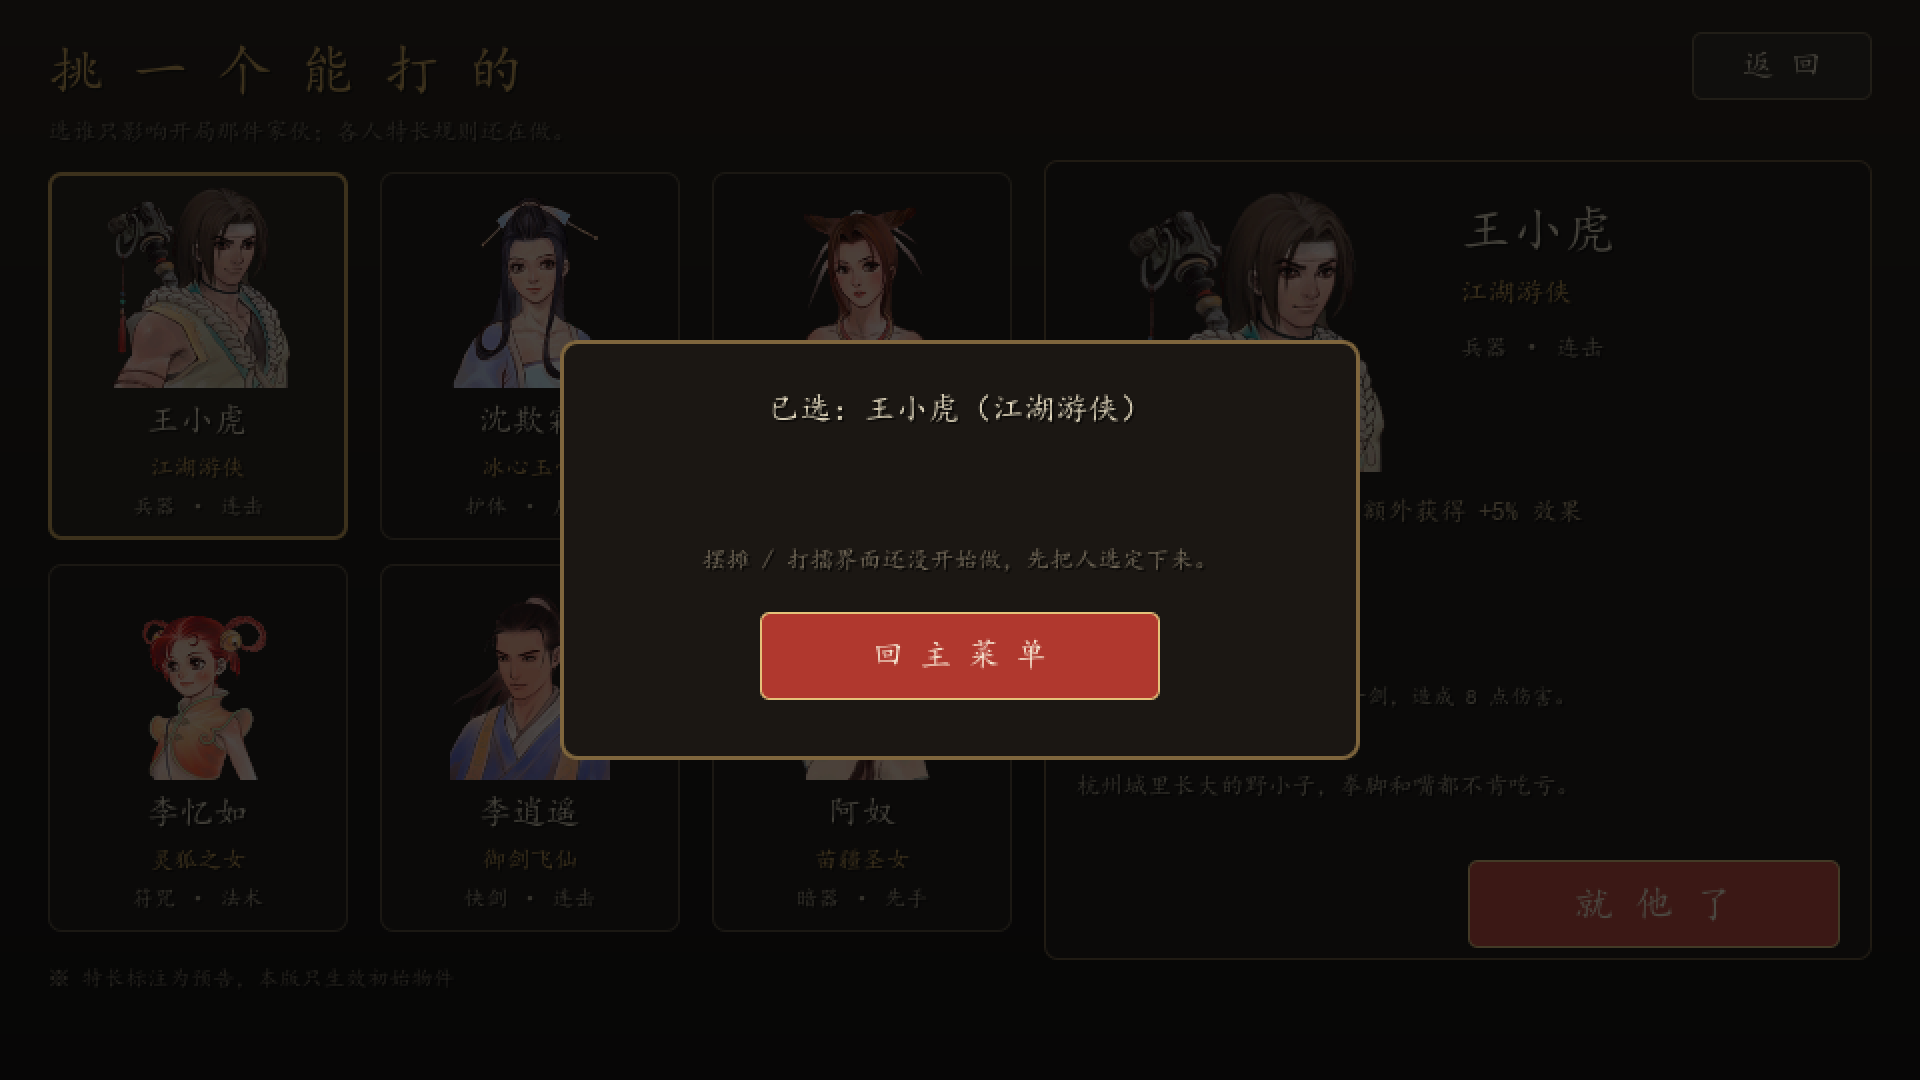
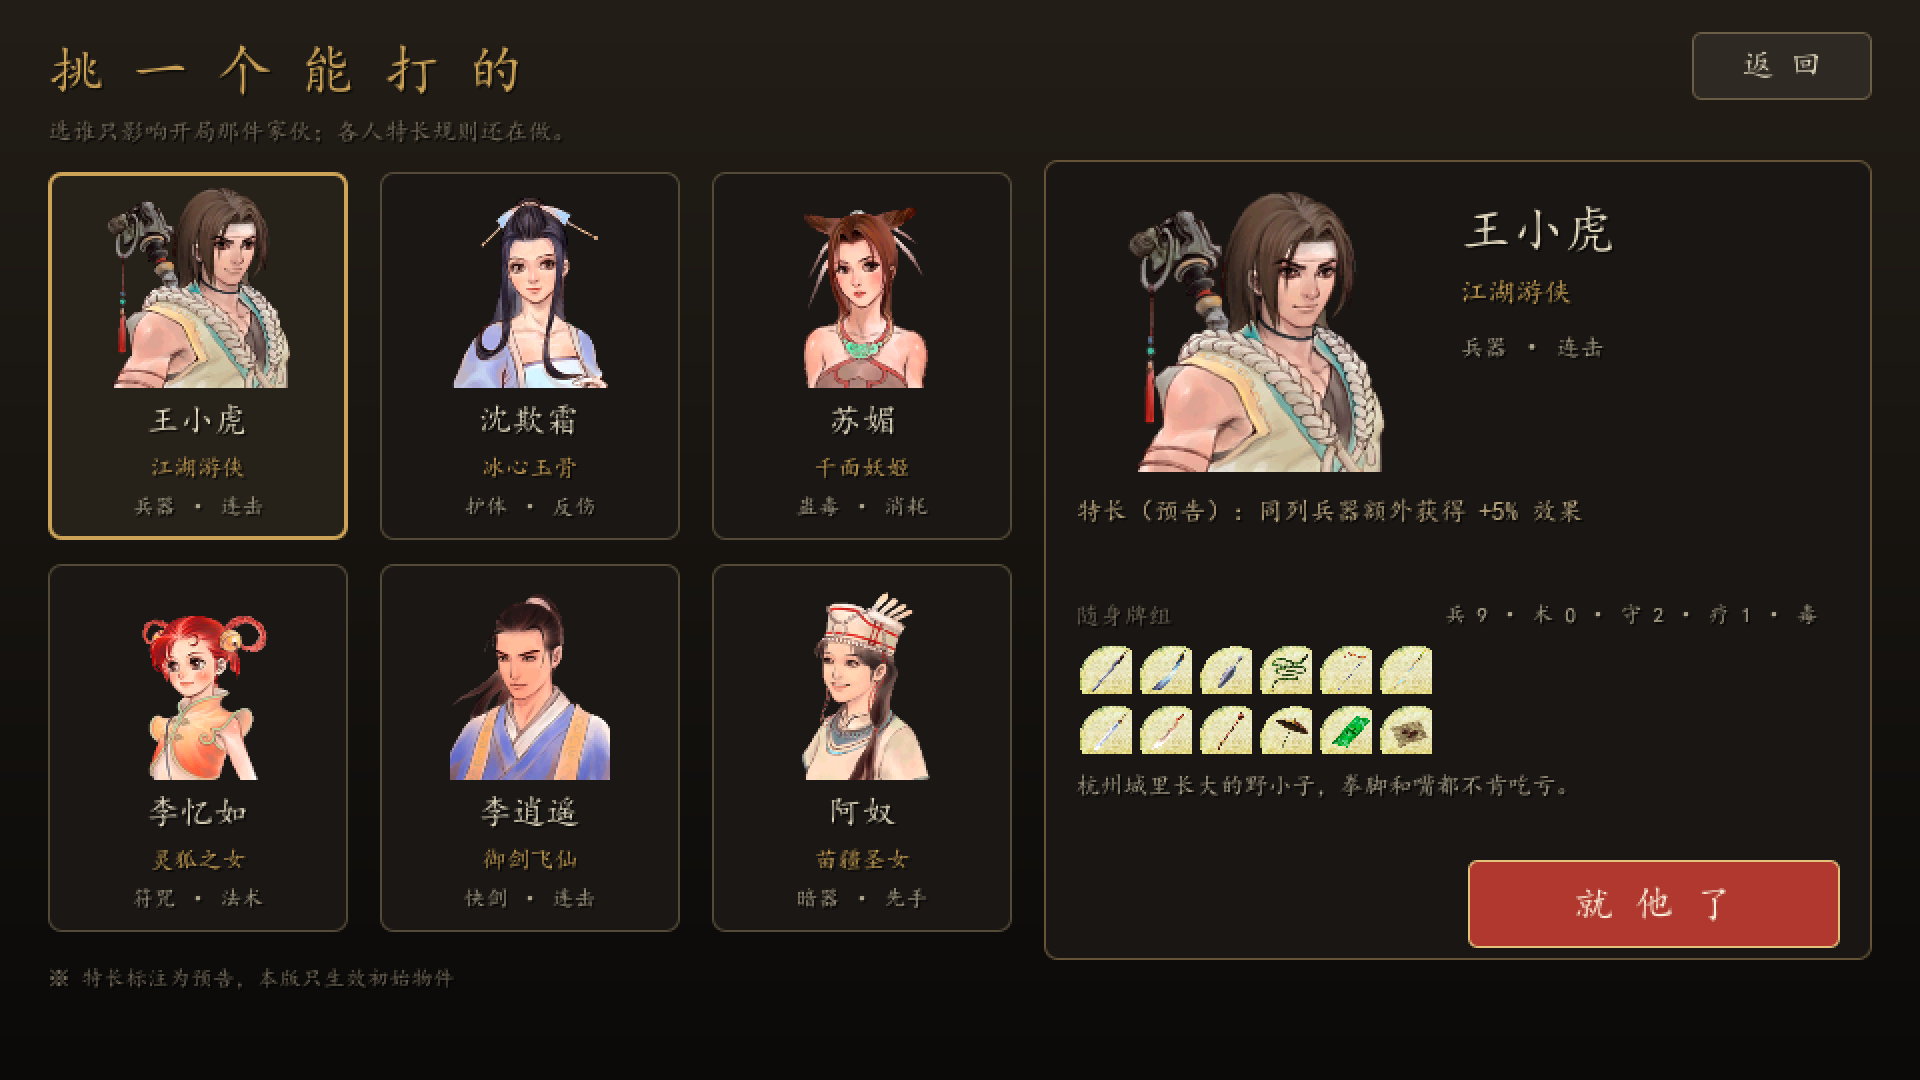
选人界面加牌组预览（12 张图标 + 配比）

diff --git a/Scripts/Game/UI/CharacterSelectPanel.cs b/Scripts/Game/UI/CharacterSelectPanel.cs
@@ -36,9 +36,8 @@ public class CharacterSelectPanel : BasePanel
     private Label _detailStyle;
     private Label _detailSpecialty;
     private Label _detailDesc;
-    private TextureRect _starterIcon;
-    private Label _starterName;
-    private Label _starterDesc;
+    private readonly TextureRect[] _deckIcons = new TextureRect[12];
+    private Label _deckSummary;
 
 
     public override void OnBind(Control control)
@@ -93,7 +92,7 @@ public class CharacterSelectPanel : BasePanel
         UiKit.Place(title, 24f, 16f, 420f, 38f);
         _root.AddChild(title);
 
-        Label hint = UiKit.MakeLabel("选谁只影响开局那件家伙；各人特长规则还在做。", 12, UiKit.Dim);
+        Label hint = UiKit.MakeLabel("选人即选牌组：十二张牌决定你打得多快、扛得多住。", 12, UiKit.Dim);
         UiKit.Place(hint, 24f, 54f, 460f, 22f);
         _root.AddChild(hint);
 
@@ -137,27 +136,22 @@ public class CharacterSelectPanel : BasePanel
         _detailSpecialty.VerticalAlignment = VerticalAlignment.Top;
         _root.AddChild(_detailSpecialty);
 
-        Label starterTag = UiKit.MakeLabel("开局携带", 12, UiKit.Dim);
-        UiKit.Place(starterTag, DetailX + 16f, DetailY + 216f, 120f, 20f);
-        _root.AddChild(starterTag);
+        Label deckTag = UiKit.MakeLabel("随身牌组", 12, UiKit.Dim);
+        UiKit.Place(deckTag, DetailX + 16f, DetailY + 216f, 120f, 20f);
+        _root.AddChild(deckTag);
 
-        _starterIcon = new TextureRect();
-        _starterIcon.ExpandMode = TextureRect.ExpandModeEnum.IgnoreSize;
-        _starterIcon.StretchMode = TextureRect.StretchModeEnum.KeepAspectCentered;
-        _starterIcon.MouseFilter = Control.MouseFilterEnum.Ignore;
-        _root.AddChild(_starterIcon);
-        _starterIcon.Position = new Vector2(DetailX + 16f, DetailY + 238f);
-        _starterIcon.Size = new Vector2(62f, 62f);
+        for (int i = 0; i < _deckIcons.Length; i++)
+        {
+            TextureRect icon = new TextureRect();
+            icon.ExpandMode = TextureRect.ExpandModeEnum.IgnoreSize;
+            icon.StretchMode = TextureRect.StretchModeEnum.KeepAspectCentered;
+            icon.MouseFilter = Control.MouseFilterEnum.Ignore;
+            AddChildIcon(icon, i);
+        }
 
-        _starterName = UiKit.MakeLabel("", 16, UiKit.Paper);
-        UiKit.Place(_starterName, DetailX + 90f, DetailY + 242f, 300f, 24f);
-        _root.AddChild(_starterName);
-
-        _starterDesc = UiKit.MakeLabel("", 11, UiKit.PaperDim);
-        UiKit.Place(_starterDesc, DetailX + 90f, DetailY + 262f, 306f, 46f);
-        _starterDesc.AutowrapMode = TextServer.AutowrapMode.Arbitrary;
-        _starterDesc.VerticalAlignment = VerticalAlignment.Top;
-        _root.AddChild(_starterDesc);
+        _deckSummary = UiKit.MakeLabel("", 11, UiKit.PaperDim);
+        UiKit.Place(_deckSummary, DetailX + 200f, DetailY + 216f, 190f, 20f);
+        _root.AddChild(_deckSummary);
 
         _detailDesc = UiKit.MakeLabel("", 12, UiKit.PaperDim);
         UiKit.Place(_detailDesc, DetailX + 16f, DetailY + 306f, 380f, 44f);
@@ -172,10 +166,21 @@ public class CharacterSelectPanel : BasePanel
         confirm.Pressed += OnConfirmPressed;
         _root.AddChild(confirm);
 
-        Label note = UiKit.MakeLabel("※ 特长标注为预告，本版只生效初始物件", 11, UiKit.Dim);
+        Label note = UiKit.MakeLabel("※ 随身牌组已生效；每人特长规则仍是预告", 11, UiKit.Dim);
         UiKit.Place(note, 24f, 478f, 460f, 20f);
         _root.AddChild(note);
 
+    }
+
+    /// <summary>12 个牌位按 6 列 2 行摆开：一眼看出这套牌是快是慢、攻多还是守多。</summary>
+    private void AddChildIcon(TextureRect icon, int index)
+    {
+        int col = index % 6;
+        int row = index / 6;
+        _root.AddChild(icon);
+        icon.Position = new Vector2(DetailX + 16f + col * 30f, DetailY + 240f + row * 30f);
+        icon.Size = new Vector2(28f, 28f);
+        _deckIcons[index] = icon;
     }
 
     private void ReloadCharacters()
@@ -234,9 +239,59 @@ public class CharacterSelectPanel : BasePanel
         _detailSpecialty.Text = "特长（预告）：" + cfg.Specialty;
         _detailDesc.Text = cfg.Desc;
 
-        _starterIcon.Texture = UiKit.LoadTexture("res://Resources/Image/Items/" + cfg.StarterIcon + ".png");
-        _starterName.Text = cfg.StarterName;
-        _starterDesc.Text = cfg.StarterDesc;
+        RefreshDeck(cfg);
+    }
+
+    /// <summary>把这位侠客的 12 张牌铺成图标，并给一句配比摘要。</summary>
+    private void RefreshDeck(CharacterConfig cfg)
+    {
+        int weapons = 0;
+        int spells = 0;
+        int guards = 0;
+        int heals = 0;
+        int poisons = 0;
+
+        for (int i = 0; i < _deckIcons.Length; i++)
+        {
+            if (cfg.Deck == null || i >= cfg.Deck.Length)
+            {
+                _deckIcons[i].Texture = null;
+                continue;
+            }
+
+            CardConfig card = ConfigManager.GetOne<CardConfig>(cfg.Deck[i]);
+            if (card == null)
+            {
+                _deckIcons[i].Texture = null;
+                continue;
+            }
+
+            _deckIcons[i].Texture = UiKit.LoadTexture("res://Resources/Image/Items/" + card.Icon + ".png");
+
+            if (card.Type == CardType.Spell)
+            {
+                spells++;
+            }
+            else if (card.Type == CardType.Guard)
+            {
+                guards++;
+            }
+            else if (card.Type == CardType.Heal)
+            {
+                heals++;
+            }
+            else if (card.Type == CardType.Poison)
+            {
+                poisons++;
+            }
+            else
+            {
+                weapons++;
+            }
+        }
+
+        _deckSummary.Text = "兵 " + weapons + " · 术 " + spells + " · 守 " + guards +
+                            " · 疗 " + heals + " · 毒 " + poisons;
     }
 
     private CharacterConfig FindCharacter(int id)
